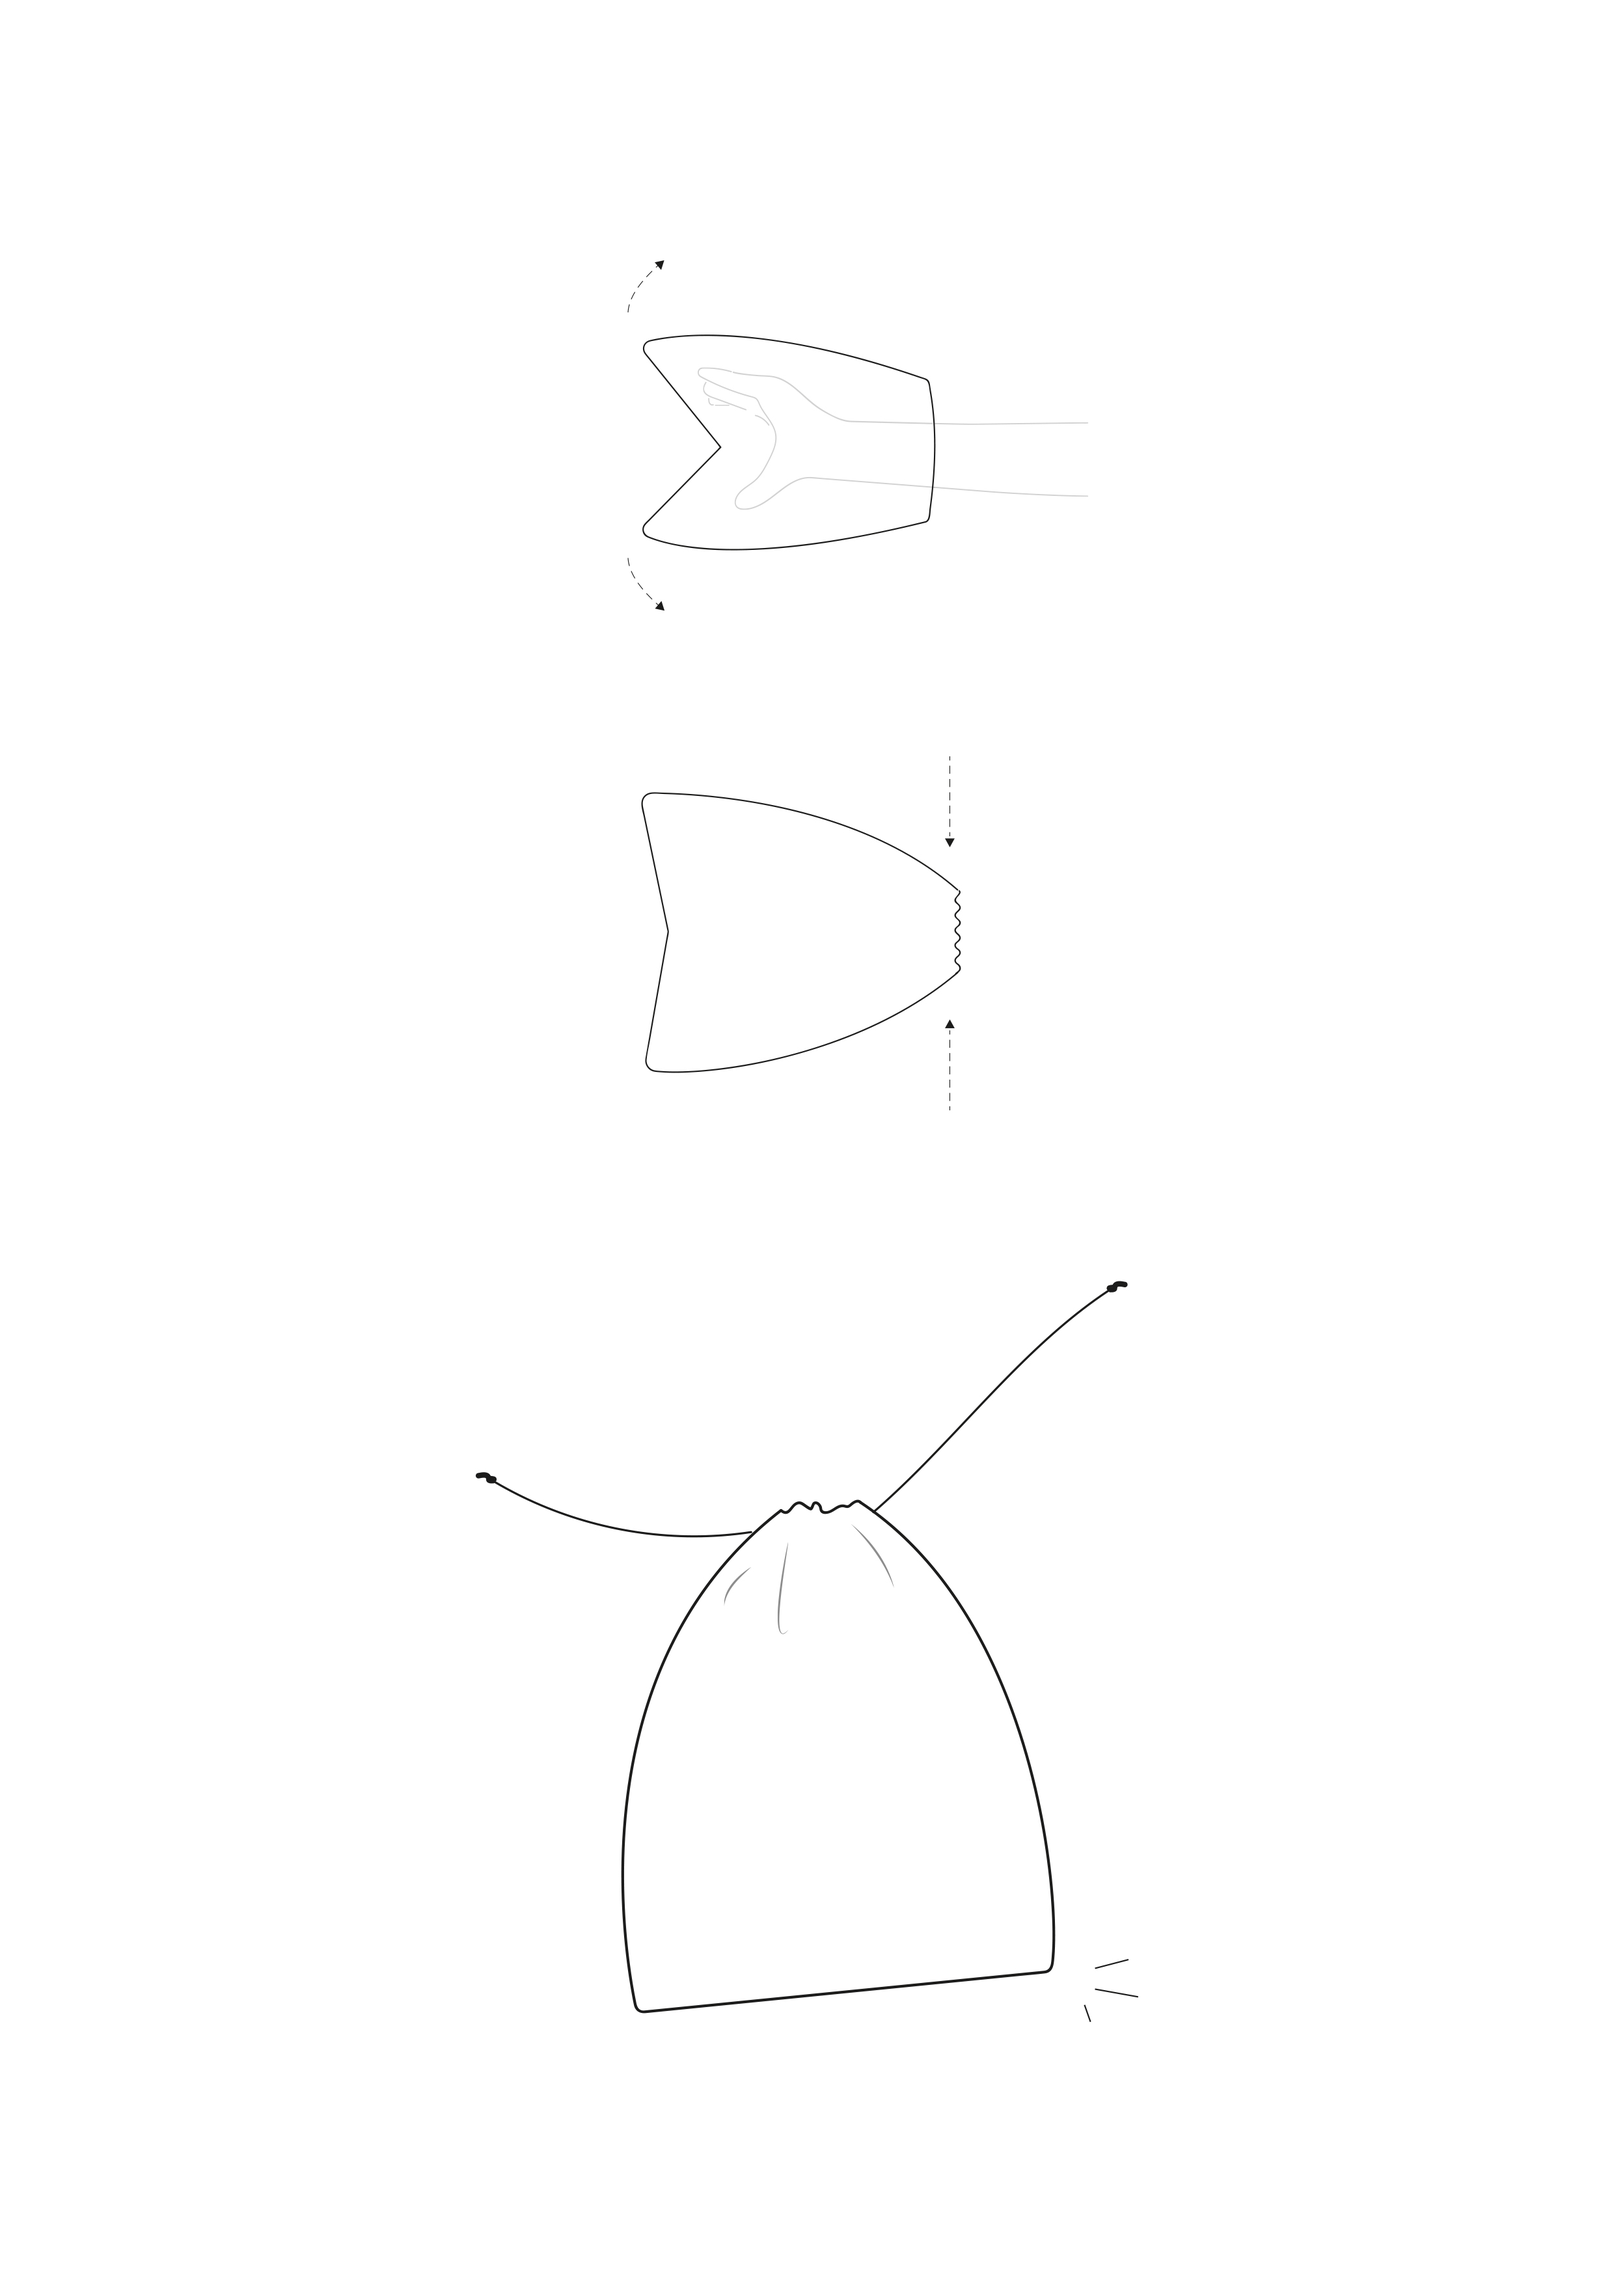
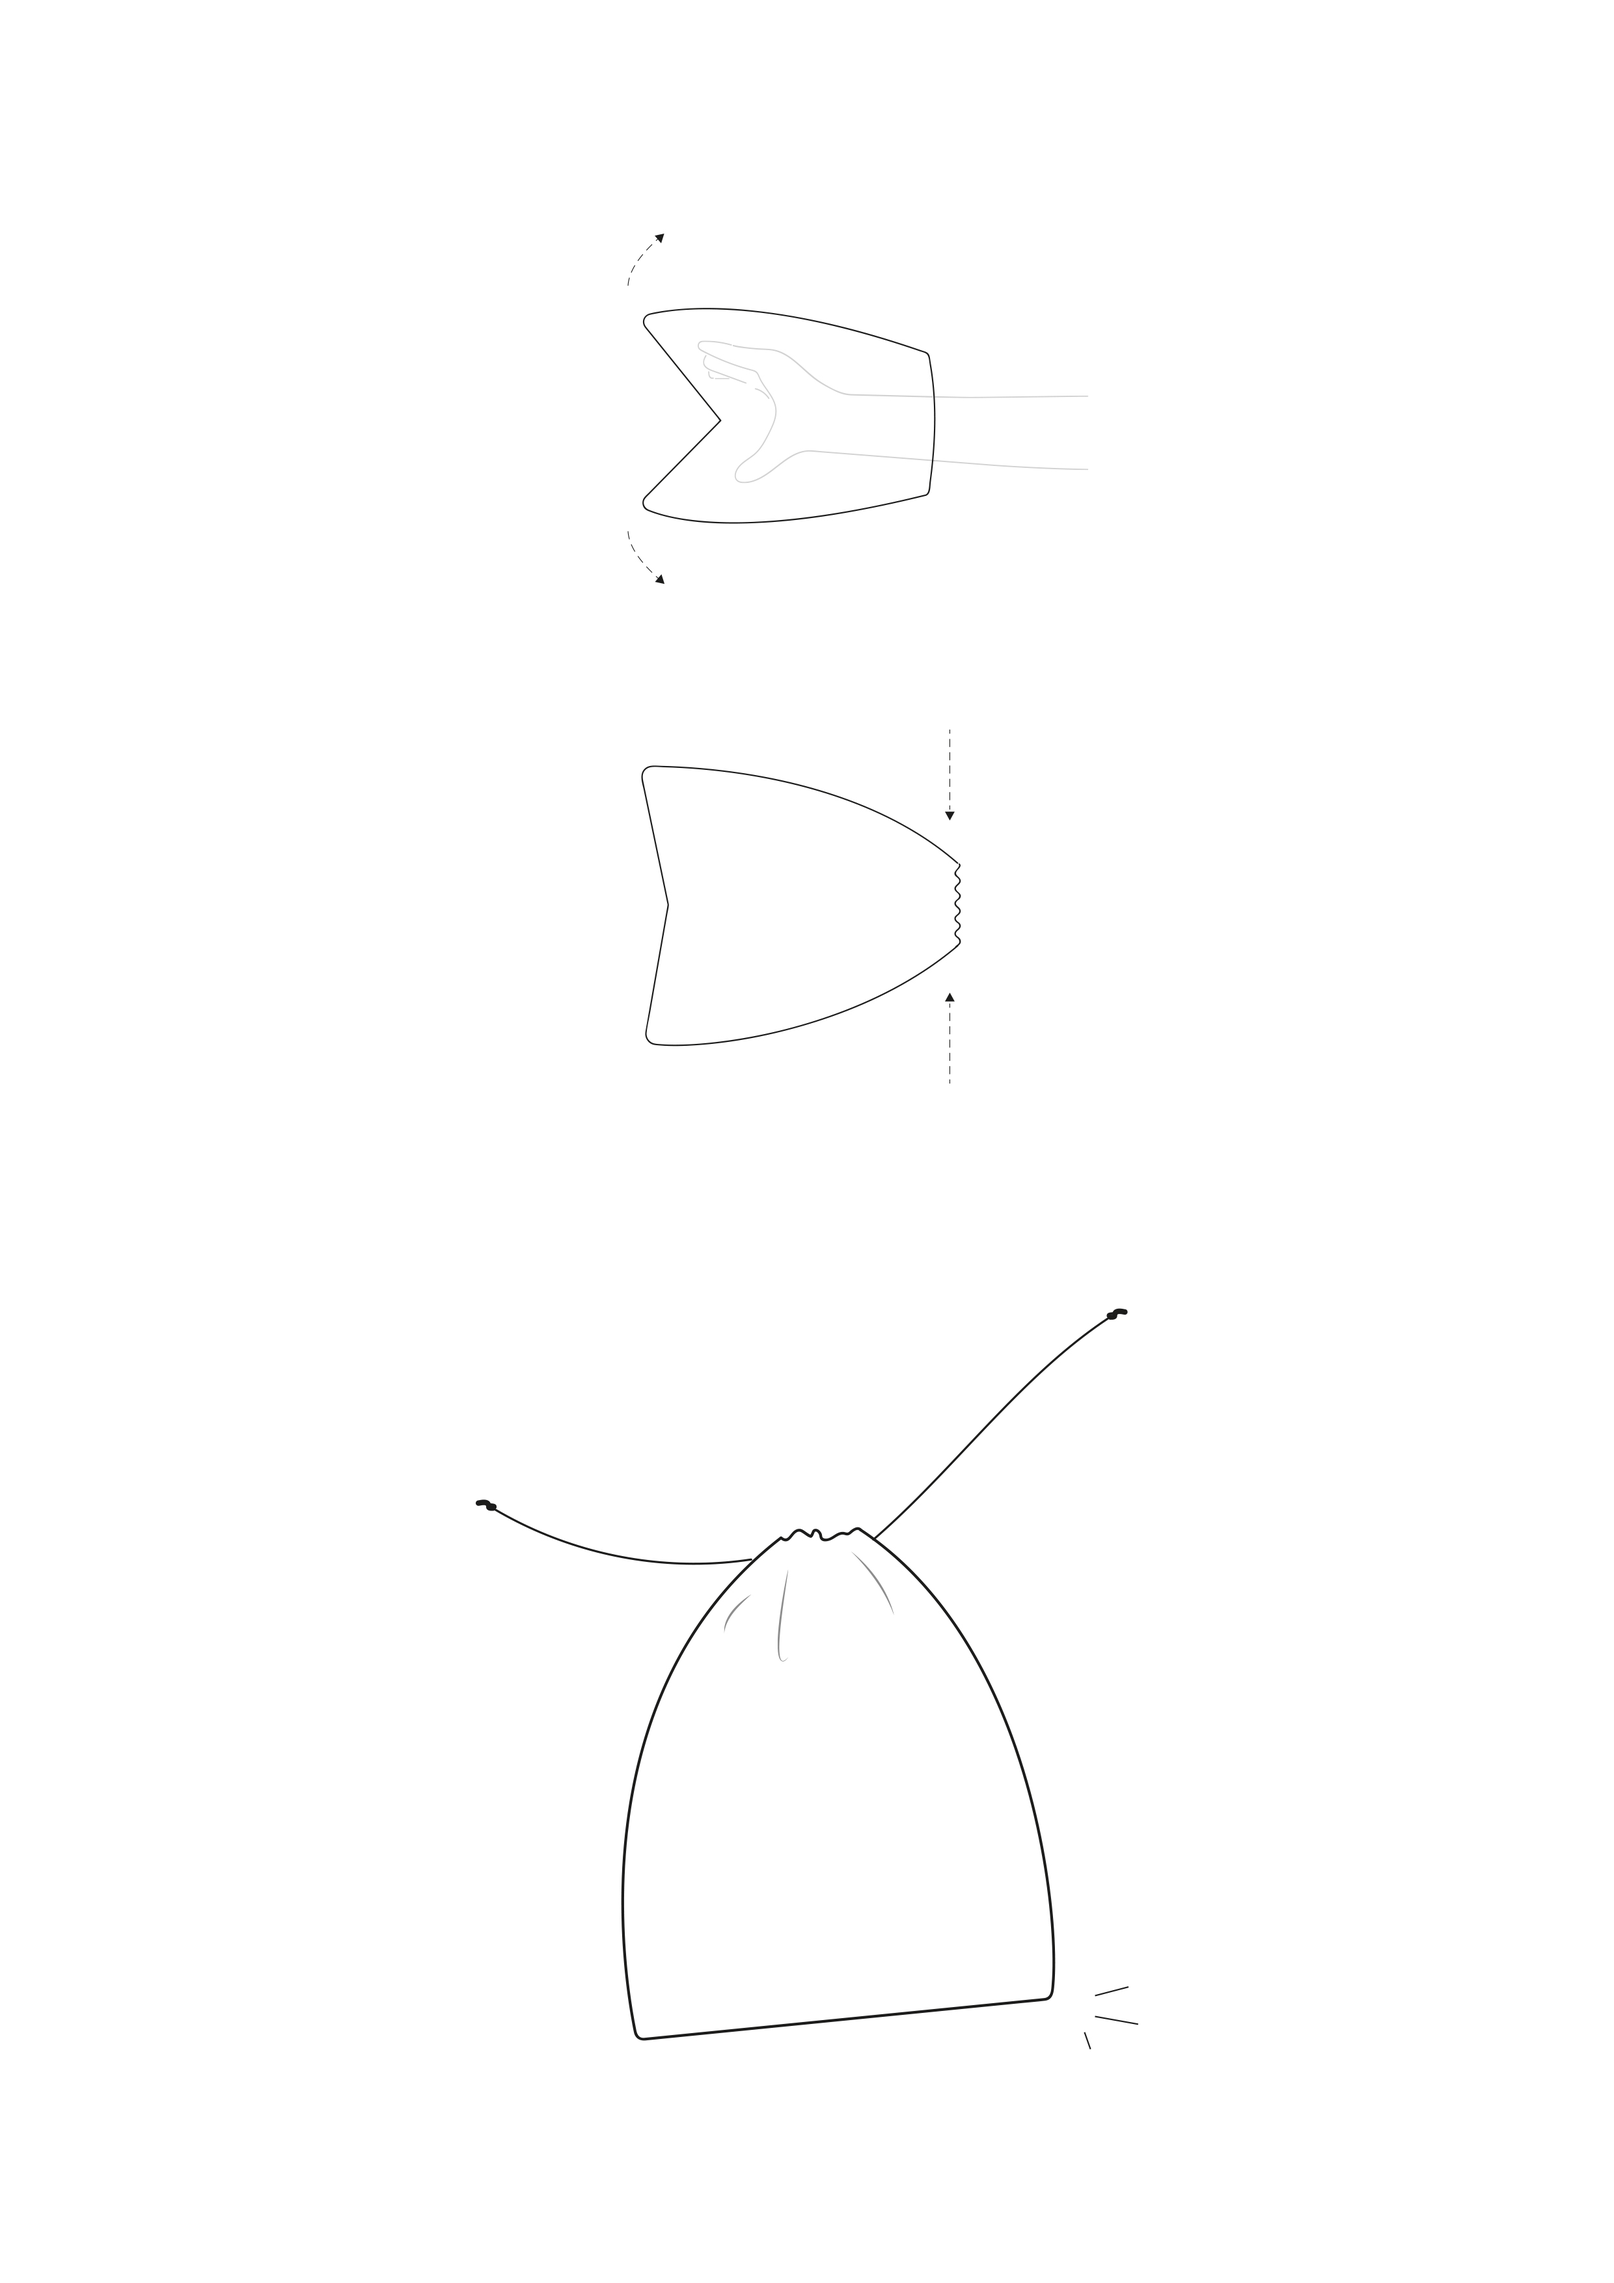
d

diff --git a/about.html b/about.html
@@ -66,7 +66,7 @@
 </div>
 
 
-  <p class= "update"> Last update: 2025.10.26 </p>
+  <p class= "update"> Last update: 2025.11.24 </p>
 
   <div class="slider-wrapper">
   <div id="image-container"></div>

diff --git a/brand.html b/brand.html
@@ -52,7 +52,7 @@
 </div>
 
 
-  <p class= "update"> Last update: 2025.10.26 </p>
+  <p class= "update"> Last update: 2025.11.24 </p>
 
   <div class="slider-wrapper">
   <div id="image-container"></div>

diff --git a/note.html b/note.html
@@ -49,7 +49,7 @@
 </div>
 
 
-  <p class= "update"> Last update: 2025.10.26 </p>
+  <p class= "update"> Last update: 2025.11.24 </p>
 
   <div class="slider-wrapper">
   <div id="image-container"></div>
